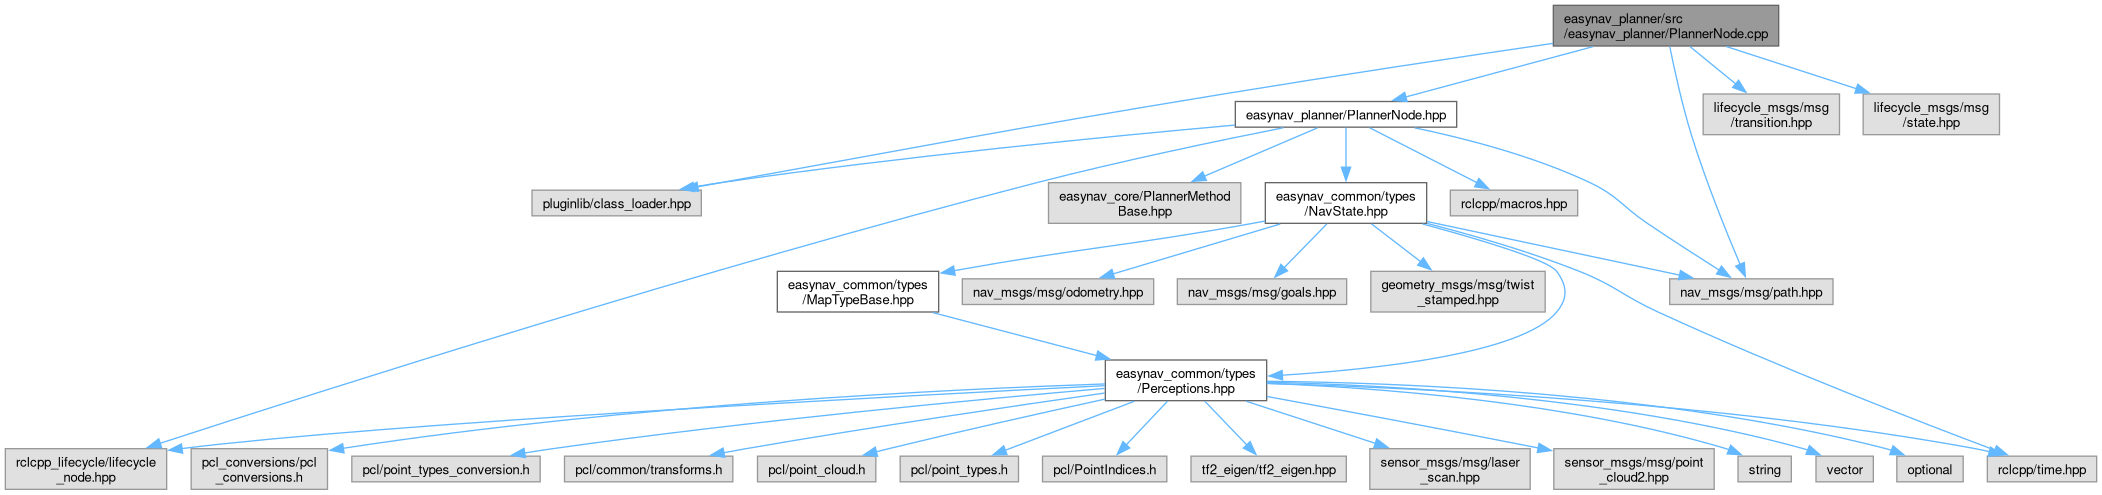
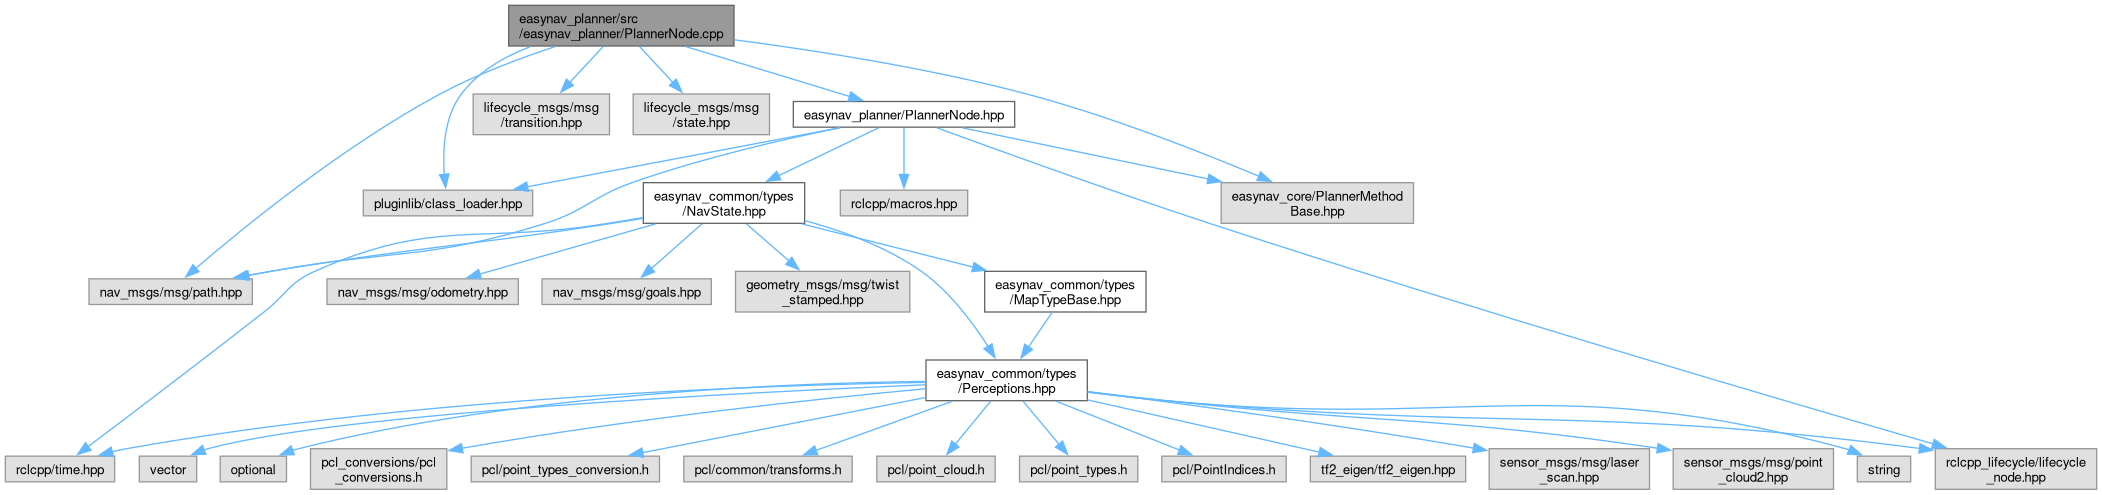
deploy: 4e333c15813ed8aaa72f93bc73c8bcd480108c27

diff --git a/PlannerNode_8cpp.html b/PlannerNode_8cpp.html
@@ -101,72 +101,74 @@ $(function(){ initResizable(false); });
 <code>#include &quot;lifecycle_msgs/msg/transition.hpp&quot;</code><br />
 <code>#include &quot;lifecycle_msgs/msg/state.hpp&quot;</code><br />
 <code>#include &quot;<a class="el" href="PlannerNode_8hpp_source.html">easynav_planner/PlannerNode.hpp</a>&quot;</code><br />
+<code>#include &quot;easynav_core/PlannerMethodBase.hpp&quot;</code><br />
 </div><div class="textblock"><div class="dynheader">
 Include dependency graph for PlannerNode.cpp:</div>
 <div class="dyncontent">
 <div class="center"><img src="PlannerNode_8cpp__incl.png" border="0" usemap="#aeasynav__planner_2src_2easynav__planner_2PlannerNode_8cpp" alt=""/></div>
 <map name="aeasynav__planner_2src_2easynav__planner_2PlannerNode_8cpp" id="aeasynav__planner_2src_2easynav__planner_2PlannerNode_8cpp">
-<area shape="rect" title="Implementation of the PlannerNode class." alt="" coords="1553,5,1779,46"/>
-<area shape="rect" title=" " alt="" coords="1670,279,1833,304"/>
-<area shape="poly" title=" " alt="" coords="1672,46,1694,134,1719,205,1743,264,1738,266,1714,207,1689,135,1667,47"/>
-<area shape="rect" title=" " alt="" coords="532,190,701,216"/>
-<area shape="poly" title=" " alt="" coords="1553,46,1224,97,972,140,721,185,698,189,697,184,720,180,971,134,1223,91,1553,41"/>
-<area shape="rect" title=" " alt="" coords="1703,94,1840,135"/>
-<area shape="poly" title=" " alt="" coords="1692,44,1738,82,1734,86,1688,49"/>
-<area shape="rect" title=" " alt="" coords="1863,94,2000,135"/>
-<area shape="poly" title=" " alt="" coords="1727,44,1858,86,1856,91,1725,49"/>
-<area shape="rect" href="PlannerNode_8hpp.html" title="Declaration of the PlannerNode class, a ROS 2 lifecycle node for computing navigation paths in Easy N..." alt="" coords="1235,102,1457,127"/>
-<area shape="poly" title=" " alt="" coords="1594,49,1406,100,1405,94,1592,44"/>
-<area shape="poly" title=" " alt="" coords="1415,125,1501,147,1547,162,1591,180,1621,199,1649,221,1721,268,1718,273,1646,226,1618,204,1589,185,1545,167,1499,152,1414,130"/>
-<area shape="poly" title=" " alt="" coords="1235,128,998,151,721,185,694,190,693,184,720,180,998,146,1235,122"/>
-<area shape="rect" title=" " alt="" coords="1450,190,1578,216"/>
-<area shape="poly" title=" " alt="" coords="1371,125,1478,180,1476,185,1368,130"/>
-<area shape="rect" title=" " alt="" coords="5,449,167,489"/>
-<area shape="poly" title=" " alt="" coords="1284,130,1169,154,1037,185,784,255,535,328,161,446,159,441,533,323,782,249,1036,180,1168,149,1283,125"/>
-<area shape="rect" title=" " alt="" coords="1048,183,1241,223"/>
-<area shape="poly" title=" " alt="" coords="1319,130,1205,179,1203,174,1317,125"/>
-<area shape="rect" href="NavState_8hpp.html" title="A blackboard&#45;like structure to hold the current state of the navigation system." alt="" coords="1265,183,1427,223"/>
-<area shape="poly" title=" " alt="" coords="1349,128,1349,168,1343,168,1343,128"/>
-<area shape="poly" title=" " alt="" coords="1428,219,1680,273,1679,278,1426,224"/>
-<area shape="rect" title=" " alt="" coords="1987,456,2097,482"/>
-<area shape="poly" title=" " alt="" coords="1428,221,1503,242,1580,269,1620,289,1659,310,1845,389,1996,448,1994,453,1843,394,1657,314,1618,293,1578,274,1501,247,1427,226"/>
-<area shape="rect" title=" " alt="" coords="962,279,1154,304"/>
-<area shape="poly" title=" " alt="" coords="1281,227,1114,276,1112,271,1280,221"/>
-<area shape="rect" title=" " alt="" coords="1177,279,1347,304"/>
-<area shape="poly" title=" " alt="" coords="1329,226,1286,270,1282,266,1325,222"/>
-<area shape="rect" title=" " alt="" coords="1371,271,1545,312"/>
-<area shape="poly" title=" " alt="" coords="1373,222,1422,260,1419,264,1370,226"/>
-<area shape="rect" href="Perceptions_8hpp.html" title="Defines data structures and utilities for representing and processing sensor perceptions." alt="" coords="1105,360,1267,401"/>
-<area shape="poly" title=" " alt="" coords="1423,221,1509,247,1541,259,1559,270,1568,292,1566,303,1559,314,1540,329,1514,341,1444,359,1362,371,1283,378,1282,373,1361,366,1443,354,1512,336,1538,324,1555,310,1561,301,1562,292,1555,273,1539,264,1507,252,1422,226"/>
-<area shape="rect" href="MapTypeBase_8hpp.html" title="Declaration of the MapsTypeBase template class, an abstract interface to represent map types." alt="" coords="777,271,939,312"/>
-<area shape="poly" title=" " alt="" coords="1266,224,1253,226,1105,249,955,273,954,268,1104,244,1252,221,1265,218"/>
-<area shape="poly" title=" " alt="" coords="1105,388,644,414,384,432,182,451,182,446,383,427,644,409,1105,383"/>
-<area shape="poly" title=" " alt="" coords="1267,381,1402,386,1579,397,1777,417,1976,446,1990,449,1989,454,1975,451,1776,422,1579,403,1402,391,1267,386"/>
-<area shape="rect" title=" " alt="" coords="1738,456,1791,482"/>
-<area shape="poly" title=" " alt="" coords="1267,381,1362,386,1478,397,1603,417,1727,446,1730,447,1728,452,1725,451,1602,422,1477,403,1362,391,1267,386"/>
-<area shape="rect" title=" " alt="" coords="1816,456,1873,482"/>
-<area shape="poly" title=" " alt="" coords="1267,380,1375,384,1510,394,1658,414,1804,446,1809,448,1807,453,1803,451,1657,419,1509,400,1375,389,1267,385"/>
-<area shape="rect" title=" " alt="" coords="1897,456,1963,482"/>
-<area shape="poly" title=" " alt="" coords="1267,379,1389,382,1544,392,1716,412,1803,427,1887,446,1892,448,1891,453,1885,451,1801,432,1715,417,1544,397,1389,387,1267,384"/>
-<area shape="rect" title=" " alt="" coords="191,449,328,489"/>
-<area shape="poly" title=" " alt="" coords="1105,387,964,393,776,404,562,423,343,451,343,446,562,418,776,399,963,387,1105,381"/>
-<area shape="rect" title=" " alt="" coords="352,456,540,482"/>
-<area shape="poly" title=" " alt="" coords="1105,391,858,415,553,451,525,456,524,450,552,446,857,409,1105,386"/>
-<area shape="rect" title=" " alt="" coords="564,456,733,482"/>
-<area shape="poly" title=" " alt="" coords="1105,396,746,451,724,455,723,450,746,446,1104,390"/>
-<area shape="rect" title=" " alt="" coords="758,456,876,482"/>
-<area shape="poly" title=" " alt="" coords="1106,402,889,451,877,454,875,449,888,446,1104,396"/>
-<area shape="rect" title=" " alt="" coords="900,456,1018,482"/>
-<area shape="poly" title=" " alt="" coords="1136,404,1006,453,1004,448,1134,399"/>
-<area shape="rect" title=" " alt="" coords="1042,456,1167,482"/>
-<area shape="poly" title=" " alt="" coords="1169,403,1128,447,1124,443,1166,399"/>
-<area shape="rect" title=" " alt="" coords="1191,456,1346,482"/>
-<area shape="poly" title=" " alt="" coords="1207,399,1249,443,1245,447,1203,403"/>
-<area shape="rect" title=" " alt="" coords="1370,449,1530,489"/>
-<area shape="poly" title=" " alt="" coords="1247,399,1377,441,1375,446,1245,404"/>
-<area shape="rect" title=" " alt="" coords="1554,449,1714,489"/>
-<area shape="poly" title=" " alt="" coords="1268,394,1539,445,1538,451,1267,399"/>
-<area shape="poly" title=" " alt="" coords="934,310,1097,353,1096,358,932,315"/>
+<area shape="rect" title="Implementation of the PlannerNode class." alt="" coords="509,5,734,46"/>
+<area shape="rect" title=" " alt="" coords="89,279,252,304"/>
+<area shape="poly" title=" " alt="" coords="556,49,499,70,441,96,369,140,300,188,197,270,194,266,297,184,366,135,439,92,497,65,554,44"/>
+<area shape="rect" title=" " alt="" coords="363,190,533,216"/>
+<area shape="poly" title=" " alt="" coords="532,49,494,68,463,96,454,114,448,134,447,175,442,174,443,134,449,112,459,92,491,63,529,44"/>
+<area shape="rect" title=" " alt="" coords="473,94,610,135"/>
+<area shape="poly" title=" " alt="" coords="605,48,572,84,568,81,601,45"/>
+<area shape="rect" title=" " alt="" coords="633,94,770,135"/>
+<area shape="poly" title=" " alt="" coords="641,45,675,81,671,84,638,48"/>
+<area shape="rect" href="PlannerNode_8hpp.html" title="Declaration of the PlannerNode class, a ROS 2 lifecycle node for computing navigation paths in Easy N..." alt="" coords="793,102,1015,127"/>
+<area shape="poly" title=" " alt="" coords="687,44,851,94,849,99,685,49"/>
+<area shape="rect" title=" " alt="" coords="1221,183,1414,223"/>
+<area shape="poly" title=" " alt="" coords="735,37,875,59,1027,91,1153,132,1260,174,1258,179,1151,137,1026,97,874,64,734,42"/>
+<area shape="poly" title=" " alt="" coords="840,130,742,153,633,185,590,206,546,226,470,246,410,256,349,262,271,274,249,278,248,273,270,269,348,257,409,250,469,241,544,221,588,201,631,180,740,148,839,125"/>
+<area shape="poly" title=" " alt="" coords="840,130,528,189,527,184,839,125"/>
+<area shape="rect" title=" " alt="" coords="840,190,968,216"/>
+<area shape="poly" title=" " alt="" coords="907,128,907,174,901,174,901,128"/>
+<area shape="rect" title=" " alt="" coords="1935,449,2097,489"/>
+<area shape="poly" title=" " alt="" coords="938,125,1210,221,1616,347,1934,441,1932,446,1614,353,1208,226,936,130"/>
+<area shape="poly" title=" " alt="" coords="963,125,1209,176,1208,182,962,130"/>
+<area shape="rect" href="NavState_8hpp.html" title="A blackboard&#45;like structure to hold the current state of the navigation system." alt="" coords="643,183,805,223"/>
+<area shape="poly" title=" " alt="" coords="880,130,780,178,777,173,877,125"/>
+<area shape="poly" title=" " alt="" coords="643,221,612,226,442,249,271,274,247,278,246,273,270,269,441,244,612,221,642,216"/>
+<area shape="rect" title=" " alt="" coords="5,456,115,482"/>
+<area shape="poly" title=" " alt="" coords="643,220,608,226,524,235,458,238,394,247,357,257,316,274,290,291,266,314,90,449,86,445,262,310,286,287,313,269,356,252,393,242,457,233,524,230,608,221,642,215"/>
+<area shape="rect" title=" " alt="" coords="327,279,518,304"/>
+<area shape="poly" title=" " alt="" coords="656,227,481,277,479,271,655,221"/>
+<area shape="rect" title=" " alt="" coords="542,279,711,304"/>
+<area shape="poly" title=" " alt="" coords="704,226,653,271,650,267,700,222"/>
+<area shape="rect" title=" " alt="" coords="736,271,910,312"/>
+<area shape="poly" title=" " alt="" coords="748,222,791,259,787,263,745,226"/>
+<area shape="rect" href="Perceptions_8hpp.html" title="Defines data structures and utilities for representing and processing sensor perceptions." alt="" coords="926,360,1087,401"/>
+<area shape="poly" title=" " alt="" coords="806,218,866,238,923,269,961,306,990,345,986,348,957,309,920,273,863,243,804,223"/>
+<area shape="rect" href="MapTypeBase_8hpp.html" title="Declaration of the MapsTypeBase template class, an abstract interface to represent map types." alt="" coords="985,271,1146,312"/>
+<area shape="poly" title=" " alt="" coords="803,221,974,264,972,270,801,227"/>
+<area shape="poly" title=" " alt="" coords="1088,390,1166,398,1376,412,1541,417,1708,424,1920,446,1919,451,1707,430,1541,422,1376,417,1165,403,1087,395"/>
+<area shape="poly" title=" " alt="" coords="926,385,776,389,577,400,353,419,239,434,127,451,113,454,111,449,126,446,238,428,352,414,577,394,776,384,926,380"/>
+<area shape="rect" title=" " alt="" coords="1857,456,1911,482"/>
+<area shape="poly" title=" " alt="" coords="1088,389,1166,398,1269,405,1358,407,1509,403,1581,404,1658,409,1745,422,1846,446,1850,447,1849,452,1845,451,1744,428,1658,415,1581,409,1509,408,1358,412,1269,410,1165,403,1087,395"/>
+<area shape="rect" title=" " alt="" coords="139,456,197,482"/>
+<area shape="poly" title=" " alt="" coords="926,387,551,409,352,427,270,438,209,451,205,452,203,447,207,446,270,433,352,422,551,403,925,382"/>
+<area shape="rect" title=" " alt="" coords="220,456,286,482"/>
+<area shape="poly" title=" " alt="" coords="926,384,803,387,646,397,472,418,384,432,299,451,293,453,292,448,298,446,383,427,471,412,645,392,803,382,926,379"/>
+<area shape="rect" title=" " alt="" coords="310,449,447,489"/>
+<area shape="poly" title=" " alt="" coords="926,391,720,413,462,451,462,446,719,408,925,386"/>
+<area shape="rect" title=" " alt="" coords="471,456,660,482"/>
+<area shape="poly" title=" " alt="" coords="926,400,643,455,642,450,925,395"/>
+<area shape="rect" title=" " alt="" coords="684,456,852,482"/>
+<area shape="poly" title=" " alt="" coords="953,404,817,453,815,448,952,399"/>
+<area shape="rect" title=" " alt="" coords="877,456,995,482"/>
+<area shape="poly" title=" " alt="" coords="993,403,957,446,953,443,989,399"/>
+<area shape="rect" title=" " alt="" coords="1020,456,1138,482"/>
+<area shape="poly" title=" " alt="" coords="1025,399,1061,442,1057,446,1021,403"/>
+<area shape="rect" title=" " alt="" coords="1162,456,1286,482"/>
+<area shape="poly" title=" " alt="" coords="1057,399,1181,448,1179,453,1055,404"/>
+<area shape="rect" title=" " alt="" coords="1310,456,1466,482"/>
+<area shape="poly" title=" " alt="" coords="1088,397,1320,450,1319,455,1087,403"/>
+<area shape="rect" title=" " alt="" coords="1489,449,1650,489"/>
+<area shape="poly" title=" " alt="" coords="1088,389,1262,412,1474,446,1473,451,1261,418,1087,394"/>
+<area shape="rect" title=" " alt="" coords="1673,449,1834,489"/>
+<area shape="poly" title=" " alt="" coords="1088,389,1166,398,1303,411,1411,418,1520,428,1658,446,1658,451,1519,433,1410,424,1302,416,1165,403,1087,394"/>
+<area shape="poly" title=" " alt="" coords="1054,314,1031,349,1026,346,1050,311"/>
 </map>
 </div>
 </div><table class="memberdecls">

diff --git a/PlannerNode_8hpp_source.html b/PlannerNode_8hpp_source.html
@@ -154,11 +154,11 @@ $(function(){ initResizable(false); });
 <div class="line"><a id="l00111" name="l00111"></a><span class="lineno">  111</span>  <span class="keywordtype">void</span> <a class="code hl_function" href="classeasynav_1_1PlannerNode.html#a2b3c13c546cbcb92bdf965736235e7fb">cycle</a>();</div>
 <div class="line"><a id="l00112" name="l00112"></a><span class="lineno">  112</span> </div>
 <div class="line"><a id="l00113" name="l00113"></a><span class="lineno">  113</span>private:</div>
-<div class="line"><a id="l00115" name="l00115"></a><span class="lineno">  115</span>  <a class="code hl_namespace" href="namespacestd.html">std</a>::shared_ptr&lt;PlannerMethodBase&gt; planner_method_ {<span class="keyword">nullptr</span>};</div>
+<div class="line"><a id="l00115" name="l00115"></a><span class="lineno">  115</span>  const <a class="code hl_namespace" href="namespacestd.html">std</a>::shared_ptr&lt;const <a class="code hl_struct" href="structeasynav_1_1NavState.html">NavState</a>&gt; nav_state_;</div>
 <div class="line"><a id="l00116" name="l00116"></a><span class="lineno">  116</span></div>
-<div class="line"><a id="l00118" name="l00118"></a><span class="lineno">  118</span>  <span class="keyword">const</span> std::shared_ptr&lt;const NavState&gt; nav_state_;</div>
+<div class="line"><a id="l00118" name="l00118"></a><span class="lineno">  118</span>  <a class="code hl_namespace" href="namespacestd.html">std</a>::unique_ptr&lt;pluginlib::ClassLoader&lt;PlannerMethodBase&gt;&gt; planner_loader_;</div>
 <div class="line"><a id="l00119" name="l00119"></a><span class="lineno">  119</span></div>
-<div class="line"><a id="l00121" name="l00121"></a><span class="lineno">  121</span>  std::unique_ptr&lt;pluginlib::ClassLoader&lt;easynav::PlannerMethodBase&gt;&gt; planner_loader_;</div>
+<div class="line"><a id="l00121" name="l00121"></a><span class="lineno">  121</span>  <a class="code hl_namespace" href="namespacestd.html">std</a>::shared_ptr&lt;PlannerMethodBase&gt; planner_method_ {<span class="keyword">nullptr</span>};</div>
 <div class="line"><a id="l00122" name="l00122"></a><span class="lineno">  122</span>};</div>
 </div>
 <div class="line"><a id="l00123" name="l00123"></a><span class="lineno">  123</span> </div>
@@ -166,16 +166,16 @@ $(function(){ initResizable(false); });
 <div class="line"><a id="l00125" name="l00125"></a><span class="lineno">  125</span> </div>
 <div class="line"><a id="l00126" name="l00126"></a><span class="lineno">  126</span><span class="preprocessor">#endif  </span><span class="comment">// EASYNAV_PLANNER__PLANNERNODE_HPP_</span></div>
 <div class="ttc" id="aNavState_8hpp_html"><div class="ttname"><a href="NavState_8hpp.html">NavState.hpp</a></div><div class="ttdoc">A blackboard-like structure to hold the current state of the navigation system.</div></div>
-<div class="ttc" id="aclasseasynav_1_1PlannerNode_html_a26f6915d7f6c74f8cf2e766e352ef4a1"><div class="ttname"><a href="classeasynav_1_1PlannerNode.html#a26f6915d7f6c74f8cf2e766e352ef4a1">easynav::PlannerNode::on_activate</a></div><div class="ttdeci">CallbackReturnT on_activate(const rclcpp_lifecycle::State &amp;state)</div><div class="ttdoc">Activate the node.</div><div class="ttdef"><b>Definition</b> PlannerNode.cpp:116</div></div>
-<div class="ttc" id="aclasseasynav_1_1PlannerNode_html_a2b3c13c546cbcb92bdf965736235e7fb"><div class="ttname"><a href="classeasynav_1_1PlannerNode.html#a2b3c13c546cbcb92bdf965736235e7fb">easynav::PlannerNode::cycle</a></div><div class="ttdeci">void cycle()</div><div class="ttdoc">Execute a non-real-time cycle.</div><div class="ttdef"><b>Definition</b> PlannerNode.cpp:163</div></div>
-<div class="ttc" id="aclasseasynav_1_1PlannerNode_html_a316621c227e6363944e9d141fc227697"><div class="ttname"><a href="classeasynav_1_1PlannerNode.html#a316621c227e6363944e9d141fc227697">easynav::PlannerNode::on_configure</a></div><div class="ttdeci">CallbackReturnT on_configure(const rclcpp_lifecycle::State &amp;state)</div><div class="ttdoc">Configure the node.</div><div class="ttdef"><b>Definition</b> PlannerNode.cpp:70</div></div>
-<div class="ttc" id="aclasseasynav_1_1PlannerNode_html_a38b74771f6ab23805f990786e4d6f806"><div class="ttname"><a href="classeasynav_1_1PlannerNode.html#a38b74771f6ab23805f990786e4d6f806">easynav::PlannerNode::on_shutdown</a></div><div class="ttdeci">CallbackReturnT on_shutdown(const rclcpp_lifecycle::State &amp;state)</div><div class="ttdoc">Shutdown the node.</div><div class="ttdef"><b>Definition</b> PlannerNode.cpp:139</div></div>
-<div class="ttc" id="aclasseasynav_1_1PlannerNode_html_a51a30cb3859b0fc27bd0aafaa778acb2"><div class="ttname"><a href="classeasynav_1_1PlannerNode.html#a51a30cb3859b0fc27bd0aafaa778acb2">easynav::PlannerNode::on_cleanup</a></div><div class="ttdeci">CallbackReturnT on_cleanup(const rclcpp_lifecycle::State &amp;state)</div><div class="ttdoc">Clean up the node.</div><div class="ttdef"><b>Definition</b> PlannerNode.cpp:132</div></div>
-<div class="ttc" id="aclasseasynav_1_1PlannerNode_html_a618c508c69d8fe9751cc8d659d62f294"><div class="ttname"><a href="classeasynav_1_1PlannerNode.html#a618c508c69d8fe9751cc8d659d62f294">easynav::PlannerNode::get_path</a></div><div class="ttdeci">nav_msgs::msg::Path get_path() const</div><div class="ttdoc">Get the current planned path.</div><div class="ttdef"><b>Definition</b> PlannerNode.cpp:153</div></div>
-<div class="ttc" id="aclasseasynav_1_1PlannerNode_html_a9b0782b915f4798a61ae8b9e56ebd5fb"><div class="ttname"><a href="classeasynav_1_1PlannerNode.html#a9b0782b915f4798a61ae8b9e56ebd5fb">easynav::PlannerNode::on_error</a></div><div class="ttdeci">CallbackReturnT on_error(const rclcpp_lifecycle::State &amp;state)</div><div class="ttdoc">Handle lifecycle transition errors.</div><div class="ttdef"><b>Definition</b> PlannerNode.cpp:146</div></div>
-<div class="ttc" id="aclasseasynav_1_1PlannerNode_html_a9e015dea1576fa524a7f470a04592b6b"><div class="ttname"><a href="classeasynav_1_1PlannerNode.html#a9e015dea1576fa524a7f470a04592b6b">easynav::PlannerNode::PlannerNode</a></div><div class="ttdeci">PlannerNode(const std::shared_ptr&lt; const NavState &gt; &amp;nav_state, const rclcpp::NodeOptions &amp;options=rclcpp::NodeOptions())</div><div class="ttdoc">Constructor.</div><div class="ttdef"><b>Definition</b> PlannerNode.cpp:36</div></div>
+<div class="ttc" id="aclasseasynav_1_1PlannerNode_html_a26f6915d7f6c74f8cf2e766e352ef4a1"><div class="ttname"><a href="classeasynav_1_1PlannerNode.html#a26f6915d7f6c74f8cf2e766e352ef4a1">easynav::PlannerNode::on_activate</a></div><div class="ttdeci">CallbackReturnT on_activate(const rclcpp_lifecycle::State &amp;state)</div><div class="ttdoc">Activate the node.</div><div class="ttdef"><b>Definition</b> PlannerNode.cpp:117</div></div>
+<div class="ttc" id="aclasseasynav_1_1PlannerNode_html_a2b3c13c546cbcb92bdf965736235e7fb"><div class="ttname"><a href="classeasynav_1_1PlannerNode.html#a2b3c13c546cbcb92bdf965736235e7fb">easynav::PlannerNode::cycle</a></div><div class="ttdeci">void cycle()</div><div class="ttdoc">Execute a non-real-time cycle.</div><div class="ttdef"><b>Definition</b> PlannerNode.cpp:164</div></div>
+<div class="ttc" id="aclasseasynav_1_1PlannerNode_html_a316621c227e6363944e9d141fc227697"><div class="ttname"><a href="classeasynav_1_1PlannerNode.html#a316621c227e6363944e9d141fc227697">easynav::PlannerNode::on_configure</a></div><div class="ttdeci">CallbackReturnT on_configure(const rclcpp_lifecycle::State &amp;state)</div><div class="ttdoc">Configure the node.</div><div class="ttdef"><b>Definition</b> PlannerNode.cpp:71</div></div>
+<div class="ttc" id="aclasseasynav_1_1PlannerNode_html_a38b74771f6ab23805f990786e4d6f806"><div class="ttname"><a href="classeasynav_1_1PlannerNode.html#a38b74771f6ab23805f990786e4d6f806">easynav::PlannerNode::on_shutdown</a></div><div class="ttdeci">CallbackReturnT on_shutdown(const rclcpp_lifecycle::State &amp;state)</div><div class="ttdoc">Shutdown the node.</div><div class="ttdef"><b>Definition</b> PlannerNode.cpp:140</div></div>
+<div class="ttc" id="aclasseasynav_1_1PlannerNode_html_a51a30cb3859b0fc27bd0aafaa778acb2"><div class="ttname"><a href="classeasynav_1_1PlannerNode.html#a51a30cb3859b0fc27bd0aafaa778acb2">easynav::PlannerNode::on_cleanup</a></div><div class="ttdeci">CallbackReturnT on_cleanup(const rclcpp_lifecycle::State &amp;state)</div><div class="ttdoc">Clean up the node.</div><div class="ttdef"><b>Definition</b> PlannerNode.cpp:133</div></div>
+<div class="ttc" id="aclasseasynav_1_1PlannerNode_html_a618c508c69d8fe9751cc8d659d62f294"><div class="ttname"><a href="classeasynav_1_1PlannerNode.html#a618c508c69d8fe9751cc8d659d62f294">easynav::PlannerNode::get_path</a></div><div class="ttdeci">nav_msgs::msg::Path get_path() const</div><div class="ttdoc">Get the current planned path.</div><div class="ttdef"><b>Definition</b> PlannerNode.cpp:154</div></div>
+<div class="ttc" id="aclasseasynav_1_1PlannerNode_html_a9b0782b915f4798a61ae8b9e56ebd5fb"><div class="ttname"><a href="classeasynav_1_1PlannerNode.html#a9b0782b915f4798a61ae8b9e56ebd5fb">easynav::PlannerNode::on_error</a></div><div class="ttdeci">CallbackReturnT on_error(const rclcpp_lifecycle::State &amp;state)</div><div class="ttdoc">Handle lifecycle transition errors.</div><div class="ttdef"><b>Definition</b> PlannerNode.cpp:147</div></div>
+<div class="ttc" id="aclasseasynav_1_1PlannerNode_html_a9e015dea1576fa524a7f470a04592b6b"><div class="ttname"><a href="classeasynav_1_1PlannerNode.html#a9e015dea1576fa524a7f470a04592b6b">easynav::PlannerNode::PlannerNode</a></div><div class="ttdeci">PlannerNode(const std::shared_ptr&lt; const NavState &gt; &amp;nav_state, const rclcpp::NodeOptions &amp;options=rclcpp::NodeOptions())</div><div class="ttdoc">Constructor.</div><div class="ttdef"><b>Definition</b> PlannerNode.cpp:37</div></div>
 <div class="ttc" id="aclasseasynav_1_1PlannerNode_html_ad09d90f1fe35c9e2f2fd7fc1902312f4"><div class="ttname"><a href="classeasynav_1_1PlannerNode.html#ad09d90f1fe35c9e2f2fd7fc1902312f4">easynav::PlannerNode::CallbackReturnT</a></div><div class="ttdeci">rclcpp_lifecycle::node_interfaces::LifecycleNodeInterface::CallbackReturn CallbackReturnT</div><div class="ttdef"><b>Definition</b> PlannerNode.hpp:46</div></div>
-<div class="ttc" id="aclasseasynav_1_1PlannerNode_html_afc8a8fa2ed2c7efe041cde46ce4c3c9b"><div class="ttname"><a href="classeasynav_1_1PlannerNode.html#afc8a8fa2ed2c7efe041cde46ce4c3c9b">easynav::PlannerNode::on_deactivate</a></div><div class="ttdeci">CallbackReturnT on_deactivate(const rclcpp_lifecycle::State &amp;state)</div><div class="ttdoc">Deactivate the node.</div><div class="ttdef"><b>Definition</b> PlannerNode.cpp:124</div></div>
+<div class="ttc" id="aclasseasynav_1_1PlannerNode_html_afc8a8fa2ed2c7efe041cde46ce4c3c9b"><div class="ttname"><a href="classeasynav_1_1PlannerNode.html#afc8a8fa2ed2c7efe041cde46ce4c3c9b">easynav::PlannerNode::on_deactivate</a></div><div class="ttdeci">CallbackReturnT on_deactivate(const rclcpp_lifecycle::State &amp;state)</div><div class="ttdoc">Deactivate the node.</div><div class="ttdef"><b>Definition</b> PlannerNode.cpp:125</div></div>
 <div class="ttc" id="anamespaceeasynav_html"><div class="ttname"><a href="namespaceeasynav.html">easynav</a></div><div class="ttdef"><b>Definition</b> RTTFBuffer.hpp:28</div></div>
 <div class="ttc" id="anamespacestd_html"><div class="ttname"><a href="namespacestd.html">std</a></div><div class="ttdef"><b>Definition</b> Perceptions.hpp:48</div></div>
 <div class="ttc" id="astructeasynav_1_1NavState_html"><div class="ttname"><a href="structeasynav_1_1NavState.html">easynav::NavState</a></div><div class="ttdoc">Represents the state of the navigation system.</div><div class="ttdef"><b>Definition</b> NavState.hpp:45</div></div>

diff --git a/SystemNode_8hpp_source.html b/SystemNode_8hpp_source.html
@@ -215,7 +215,7 @@ $(function(){ initResizable(false); });
 <div class="ttc" id="aclasseasynav_1_1SystemNode_html_a26f6915d7f6c74f8cf2e766e352ef4a1"><div class="ttname"><a href="classeasynav_1_1SystemNode.html#a26f6915d7f6c74f8cf2e766e352ef4a1">easynav::SystemNode::on_activate</a></div><div class="ttdeci">CallbackReturnT on_activate(const rclcpp_lifecycle::State &amp;state)</div><div class="ttdoc">Activate the node.</div><div class="ttdef"><b>Definition</b> SystemNode.cpp:100</div></div>
 <div class="ttc" id="aclasseasynav_1_1SystemNode_html_a316621c227e6363944e9d141fc227697"><div class="ttname"><a href="classeasynav_1_1SystemNode.html#a316621c227e6363944e9d141fc227697">easynav::SystemNode::on_configure</a></div><div class="ttdeci">CallbackReturnT on_configure(const rclcpp_lifecycle::State &amp;state)</div><div class="ttdoc">Configure the node.</div><div class="ttdef"><b>Definition</b> SystemNode.cpp:77</div></div>
 <div class="ttc" id="aclasseasynav_1_1SystemNode_html_a38b74771f6ab23805f990786e4d6f806"><div class="ttname"><a href="classeasynav_1_1SystemNode.html#a38b74771f6ab23805f990786e4d6f806">easynav::SystemNode::on_shutdown</a></div><div class="ttdeci">CallbackReturnT on_shutdown(const rclcpp_lifecycle::State &amp;state)</div><div class="ttdoc">Shutdown the node.</div><div class="ttdef"><b>Definition</b> SystemNode.cpp:154</div></div>
-<div class="ttc" id="aclasseasynav_1_1SystemNode_html_a514922ffaeaefa826c2d33243b19891f"><div class="ttname"><a href="classeasynav_1_1SystemNode.html#a514922ffaeaefa826c2d33243b19891f">easynav::SystemNode::get_system_nodes</a></div><div class="ttdeci">std::map&lt; std::string, SystemNodeInfo &gt; get_system_nodes()</div><div class="ttdoc">Get all system nodes managed by this coordinator.</div><div class="ttdef"><b>Definition</b> SystemNode.cpp:231</div></div>
+<div class="ttc" id="aclasseasynav_1_1SystemNode_html_a514922ffaeaefa826c2d33243b19891f"><div class="ttname"><a href="classeasynav_1_1SystemNode.html#a514922ffaeaefa826c2d33243b19891f">easynav::SystemNode::get_system_nodes</a></div><div class="ttdeci">std::map&lt; std::string, SystemNodeInfo &gt; get_system_nodes()</div><div class="ttdoc">Get all system nodes managed by this coordinator.</div><div class="ttdef"><b>Definition</b> SystemNode.cpp:230</div></div>
 <div class="ttc" id="aclasseasynav_1_1SystemNode_html_a51a30cb3859b0fc27bd0aafaa778acb2"><div class="ttname"><a href="classeasynav_1_1SystemNode.html#a51a30cb3859b0fc27bd0aafaa778acb2">easynav::SystemNode::on_cleanup</a></div><div class="ttdeci">CallbackReturnT on_cleanup(const rclcpp_lifecycle::State &amp;state)</div><div class="ttdoc">Cleanup the node.</div><div class="ttdef"><b>Definition</b> SystemNode.cpp:147</div></div>
 <div class="ttc" id="aclasseasynav_1_1SystemNode_html_a8366fef9515c0b0cd47949fbfc018641"><div class="ttname"><a href="classeasynav_1_1SystemNode.html#a8366fef9515c0b0cd47949fbfc018641">easynav::SystemNode::get_real_time_cbg</a></div><div class="ttdeci">rclcpp::CallbackGroup::SharedPtr get_real_time_cbg()</div><div class="ttdoc">Get the real-time callback group.</div><div class="ttdef"><b>Definition</b> SystemNode.cpp:168</div></div>
 <div class="ttc" id="aclasseasynav_1_1SystemNode_html_a9b0782b915f4798a61ae8b9e56ebd5fb"><div class="ttname"><a href="classeasynav_1_1SystemNode.html#a9b0782b915f4798a61ae8b9e56ebd5fb">easynav::SystemNode::on_error</a></div><div class="ttdeci">CallbackReturnT on_error(const rclcpp_lifecycle::State &amp;state)</div><div class="ttdoc">Handle lifecycle transition error.</div><div class="ttdef"><b>Definition</b> SystemNode.cpp:161</div></div>

diff --git a/GoalManager_8hpp_source.html b/GoalManager_8hpp_source.html
@@ -211,7 +211,7 @@ $(function(){ initResizable(false); });
 <div class="ttc" id="aclasseasynav_1_1GoalManager_html_a80f7c2db5701e01e05b2cedd201475ca"><div class="ttname"><a href="classeasynav_1_1GoalManager.html#a80f7c2db5701e01e05b2cedd201475ca">easynav::GoalManager::set_error</a></div><div class="ttdeci">void set_error(const std::string &amp;reason)</div><div class="ttdoc">Mark the system as in error state.</div><div class="ttdef"><b>Definition</b> GoalManager.cpp:191</div></div>
 <div class="ttc" id="aclasseasynav_1_1GoalManager_html_ab9991f968ed0004142db909407daf154"><div class="ttname"><a href="classeasynav_1_1GoalManager.html#ab9991f968ed0004142db909407daf154">easynav::GoalManager::get_state</a></div><div class="ttdeci">State get_state() const</div><div class="ttdoc">Get current internal goal state.</div><div class="ttdef"><b>Definition</b> GoalManager.hpp:82</div></div>
 <div class="ttc" id="aclasseasynav_1_1GoalManager_html_aba0b434a98a49412f596d6436137a62e"><div class="ttname"><a href="classeasynav_1_1GoalManager.html#aba0b434a98a49412f596d6436137a62e">easynav::GoalManager::set_failed</a></div><div class="ttdeci">void set_failed(const std::string &amp;reason)</div><div class="ttdoc">Mark the current goal as failed.</div><div class="ttdef"><b>Definition</b> GoalManager.cpp:209</div></div>
-<div class="ttc" id="aclasseasynav_1_1GoalManager_html_ac5c54df7ed3b930268c8d7752c101725"><div class="ttname"><a href="classeasynav_1_1GoalManager.html#ac5c54df7ed3b930268c8d7752c101725">easynav::GoalManager::update</a></div><div class="ttdeci">void update()</div><div class="ttdoc">Update internal logic, including preemption and timeout checks.</div><div class="ttdef"><b>Definition</b> GoalManager.cpp:240</div></div>
+<div class="ttc" id="aclasseasynav_1_1GoalManager_html_ac5c54df7ed3b930268c8d7752c101725"><div class="ttname"><a href="classeasynav_1_1GoalManager.html#ac5c54df7ed3b930268c8d7752c101725">easynav::GoalManager::update</a></div><div class="ttdeci">void update()</div><div class="ttdoc">Update internal logic, including preemption and timeout checks.</div><div class="ttdef"><b>Definition</b> GoalManager.cpp:241</div></div>
 <div class="ttc" id="anamespaceeasynav_html"><div class="ttname"><a href="namespaceeasynav.html">easynav</a></div><div class="ttdef"><b>Definition</b> RTTFBuffer.hpp:28</div></div>
 </div><!-- fragment --></div><!-- contents -->
 <!-- start footer part -->
